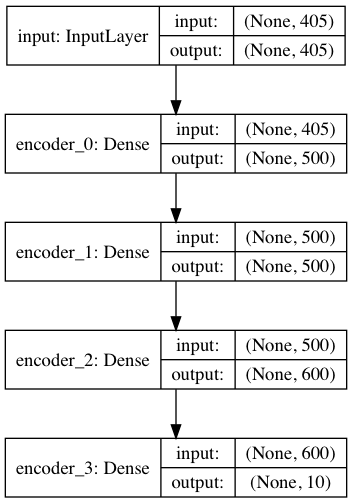
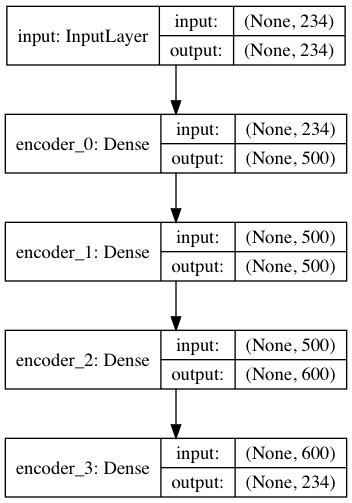
added data generator, testing yet

diff --git a/Keras-DEC-with-data-iterators.py b/Keras-DEC-with-data-iterators.py
@@ -50,6 +50,8 @@ parser.add_argument('-pt', '--pretrain_epochs', type=str, nargs='?', help='pretr
 parser.add_argument('-mi', '--maxiter', type=str, nargs='?', help='maxiter')
 parser.add_argument('-ui', '--update_interval', type=str, nargs='?', help='update_interval')
 
+parser.add_argument('-cmsp', '--confusion_matrix_save_path', type=str, nargs='?', help='confusion_matrix_save_path')
+
 FLAGS = parser.parse_args()
 print(FLAGS)
 
@@ -63,6 +65,9 @@ else:
 
 if FLAGS.out_to_dir == None or FLAGS.out_to_dir == "":
     raise Exception("Please specify out_to_dir")
+else:
+    if not os.path.exists( FLAGS.out_to_dir ):
+        os.mkdir( FLAGS.out_to_dir )
 
 ####################    
 
@@ -133,24 +138,28 @@ else:
 
     n_clusters = FLAGS.n_classes
 
-kmeans = KMeans(n_clusters=n_clusters, n_init=20, random_state=0, batch_size=FLAGS.batch_size)   #, n_jobs=4)
+print( "n_clusters" )
+print( n_clusters )
+kmeans = KMeans(n_clusters=n_clusters, n_init=20, batch_size=FLAGS.batch_size)   #random_state=0,    #, n_jobs=4)
 y_pred_kmeans = kmeans
-if False:   #ToDo temp
+if True:     #False:   #ToDo temp
     for bi in range(0, data.__len__()):
-        x, y = data.__getitem__(bi, True)
+        x, y = data.__getitem__(bi, True, is_return_only_x=False)
         y_pred_kmeans = y_pred_kmeans.partial_fit(x[:,:])
         
         ##
-        print( metrics.acc(y, y_pred_kmeans.labels_) )
+        print("y ", y.shape, y_pred_kmeans.labels_.shape)
+        #print( metrics.acc(y, y_pred_kmeans.labels_) )
 else:    
-    x, y = data.__getitem__(0, True)
+    x, y = data.__getitem__(0, True, is_return_only_x=False)
 
 #to speed up moved out side loop, will it going to change anything with efficiency of the algorithm 
 #print( metrics.acc(y, y_pred_kmeans.labels_) ) #padd entire y
 
 
 #dims = [x.shape[-1], 500, 500, 2000, 10]
-dims = [x.shape[-1], 500, 500, 600, 10]
+#dims = [x.shape[-1], 500, 500, 600, 10]
+dims = [x.shape[-1], 500, 500, 600, 234]
 init = VarianceScaling(scale=1. / 3., mode='fan_in',
                            distribution='uniform')
 pretrain_optimizer = SGD(lr=1, momentum=0.9)
@@ -249,17 +258,27 @@ Image(filename='model.png')
 
 model.compile(optimizer=SGD(0.01, 0.9), loss='kld')
 
-kmeans = KMeans(n_clusters=n_clusters, n_init=20)
+kmeans = KMeans(n_clusters=n_clusters, n_init=20, batch_size=FLAGS.batch_size)   # random_state=0,  #KMeans(n_clusters=n_clusters, n_init=20)
 #y_pred = kmeans.fit_predict(encoder.predict(x))
+is_first = True
 y_pred = None
 for bi in range(0, data.__len__()):
-    x, y = data.__getitem__(bi)
-    if y_pred == None:
-        y_pred = kmeans.fit_predict(x[:,:])
-    else:
-        y_pred = np.concatenate(y_pred, kmeans.fit_predict(x[:,:]))
+    x, y = data.__getitem__(bi, True, is_return_only_x=False)
+    # if is_first:
+    #     is_first = False
+    #     y_pred = kmeans.fit_predict(x[:,:])
+    # else:
+    #     y_pred = np.concatenate(y_pred, kmeans.fit_predict(x[:,:]))
+    kmeans.fit_predict(x[:,:])
 
-y_pred_last = np.copy(y_pred)
+y_pred_last = kmeans.labels_     #np.copy(y_pred)
+print( "y_pred_last" )
+print( type(y_pred_last) )
+print( y_pred_last.shape )
+print( "kmeans.cluster_centers_ .........................................................................................." )
+print( n_clusters )
+print(  type(kmeans.cluster_centers_) )
+print( kmeans.cluster_centers_.shape )
 
 model.get_layer(name='clustering').set_weights([kmeans.cluster_centers_])
 
@@ -276,25 +295,29 @@ update_interval = int(FLAGS.update_interval) #140
 
 tol = 0.001 # tolerance threshold to stop training
 
+yALL = None
 for ite in range(int(maxiter)):
     if ite % update_interval == 0:
         #q = model.predict(x, verbose=0)
         q = None
         for bi in range(0, data.__len__()):
-            x, y = data.__getitem__(bi)
-            if q == None:
+            x, y = data.__getitem__(bi, True, is_return_only_x=False)
+            if q is None:
                 q = model.predict(x[:,:], verbose=0)
+                yALL = y
             else:
                 q = np.concatenate(q, model.predict(x[:,:], verbose=0))
+                yALL = np.concatenate(yALL, y)
 
         p = target_distribution(q)  # update the auxiliary target distribution p
 
         # evaluate the clustering performance
         y_pred = q.argmax(1)
         if y is not None:
-            acc = np.round(metrics.acc(y, y_pred), 5)
-            nmi = np.round(metrics.nmi(y, y_pred), 5)
-            ari = np.round(metrics.ari(y, y_pred), 5)
+            #ToDo to set accuracy need to compare with yALL
+            acc = 0 # np.round(metrics.acc(y, y_pred), 5)
+            nmi = 0 # np.round(metrics.nmi(y, y_pred), 5)
+            ari = 0 # np.round(metrics.ari(y, y_pred), 5)
             loss = np.round(loss, 5)
             print('Iter %d: acc = %.5f, nmi = %.5f, ari = %.5f' % (ite, acc, nmi, ari), ' ; loss=', loss)
 
@@ -308,8 +331,8 @@ for ite in range(int(maxiter)):
     # idx = index_array[index * batch_size: min((index+1) * batch_size, x.shape[0])]
     # loss = model.train_on_batch(x=x[idx], y=p[idx])
     # index = index + 1 if (index + 1) * batch_size <= x.shape[0] else 0
-    x, y = data.__getitem__(index)
-    loss = model.train_on_batch(x=x, y=p[idx])
+    x, y = data.__getitem__(index, True, is_return_only_x=False)
+    loss = model.train_on_batch(x=x, y=p[ index * FLAGS.batch_size : (index+1) * FLAGS.batch_size ])      #y=p[idx])
     index = index + 1 if (index + 1) < data.__len__() else 0
 
 model.save_weights(save_dir + '/DEC_model_final.h5')
@@ -320,7 +343,7 @@ model.load_weights(save_dir + '/DEC_model_final.h5')
 #q = model.predict(x, verbose=0)
 q = None
 for bi in range(0, data.__len__()):
-    x, y = data.__getitem__(bi)
+    x, y = data.__getitem__(bi, True, is_return_only_x=False)
     if q == None:
         q = model.predict(x[:,:], verbose=0)
     else:
@@ -330,9 +353,9 @@ p = target_distribution(q)  # update the auxiliary target distribution p
 # evaluate the clustering performance
 y_pred = q.argmax(1)
 if y is not None:
-    acc = np.round(metrics.acc(y, y_pred), 5)
-    nmi = np.round(metrics.nmi(y, y_pred), 5)
-    ari = np.round(metrics.ari(y, y_pred), 5)
+    acc = 0 #np.round(metrics.acc(y, y_pred), 5)
+    nmi = 0 #np.round(metrics.nmi(y, y_pred), 5)
+    ari = 0 #np.round(metrics.ari(y, y_pred), 5)
     loss = np.round(loss, 5)
     print('Acc = %.5f, nmi = %.5f, ari = %.5f' % (acc, nmi, ari), ' ; loss=', loss)
 
@@ -340,7 +363,8 @@ import seaborn as sns
 import sklearn.metrics
 import matplotlib.pyplot as plt
 sns.set(font_scale=3)
-confusion_matrix = sklearn.metrics.confusion_matrix(y, y_pred)
+print( "yALL ", type(yALL), type(y_pred), yALL.shape, y_pred.shape )
+confusion_matrix = sklearn.metrics.confusion_matrix(yALL, y_pred)  #(y, y_pred)
 
 #label
 if not FLAGS.out_to_dir == None and not FLAGS.out_to_dir == "":
@@ -349,7 +373,8 @@ if not FLAGS.out_to_dir == None and not FLAGS.out_to_dir == "":
         if not os.path.isdir( FLAGS.out_to_dir + "/" + str(y_pred[i]) ):
             os.mkdir( FLAGS.out_to_dir + "/" + str(y_pred[i]) )
 
-        os.rename( y_paths[i], FLAGS.out_to_dir + "/" + str(y_pred[i]) + "/" + os.path.basename(y_paths[i]) )
+        #ToDo
+        #os.rename( y_paths[i], FLAGS.out_to_dir + "/" + str(y_pred[i]) + "/" + os.path.basename(y_paths[i]) )
 
 
 
@@ -358,7 +383,13 @@ sns.heatmap(confusion_matrix, annot=True, fmt="d", annot_kws={"size": 20});
 plt.title("Confusion matrix", fontsize=30)
 plt.ylabel('True label', fontsize=25)
 plt.xlabel('Clustering label', fontsize=25)
-plt.show()
+if not FLAGS.confusion_matrix_save_path == None and not FLAGS.confusion_matrix_save_path == "":
+    plt.savefig(FLAGS.confusion_matrix_save_path)
+else:
+    plt.show()
+
+input("Confusion matrix created, press enter to continue further...")
+
 
 from sklearn.utils.linear_assignment_ import linear_assignment
 

diff --git a/Keras-DEC.py b/Keras-DEC.py
@@ -45,6 +45,8 @@ parser.add_argument('-ui', '--update_interval', type=str, nargs='?', help='updat
 
 parser.add_argument('-csp', '--confusion_matrix_save_path', type=str, nargs='?', help='confusion_matrix_save_path')
 
+parser.add_argument('--n_classes', type=int, nargs='?', help='n_classes')
+
 
 FLAGS = parser.parse_args()
 print(FLAGS)
@@ -122,7 +124,7 @@ else:
 
                 if os.path.isfile(paths[0]+item+ "/" +item_img):
                     x.append( cv2.cvtColor(cv2.imread( paths[0]+item+ "/" +item_img ), cv2.COLOR_BGR2GRAY) )
-                    y.append( randint(0,29) )    #randint(0,9)
+                    y.append( randint(0,FLAGS.n_classes) )    #randint(0,9)
                     y_paths.append( paths[0]+item+ "/" +item_img )
 
                 # if len(x) > 1024:
@@ -186,8 +188,9 @@ print( y.shape )
 print( x[0].max(axis=0) )
 
 n_clusters = len(np.unique(y))
-x.shape
 
+print( "n_clusters" )
+print( n_clusters )
 kmeans = KMeans(n_clusters=n_clusters, n_init=20, n_jobs=4)
 y_pred_kmeans = kmeans.fit_predict(x)
 
@@ -301,8 +304,12 @@ kmeans = KMeans(n_clusters=n_clusters, n_init=20)
 y_pred = kmeans.fit_predict(encoder.predict(x))
 
 y_pred_last = np.copy(y_pred)
-
+print( "kmeans.cluster_centers_ .........................................................................................." )
+print( n_clusters )
+print(  type(kmeans.cluster_centers_) )
+print( kmeans.cluster_centers_.shape )
 model.get_layer(name='clustering').set_weights([kmeans.cluster_centers_])
+
 
 # computing an auxiliary target distribution
 def target_distribution(q):

diff --git a/DataGenerator.py b/DataGenerator.py
@@ -99,7 +99,7 @@ class DataGenerator(keras.utils.Sequence):
             print( "__len__", self.total_records, self.batch_size, int(np.floor(self.total_records / self.batch_size)) )
             return int(np.floor(self.total_records / self.batch_size))
 
-    def __getitem__(self, index, is_return_tuple=True):
+    def __getitem__(self, index, is_return_tuple=True, is_return_only_x=True):
         'Generate one batch of data'
 
         #
@@ -135,7 +135,10 @@ class DataGenerator(keras.utils.Sequence):
         print(y.shape)
 
         if is_return_tuple:
-            return X, y
+            if is_return_only_x:
+                return X, X
+            else:
+                return X, y
         else:
             return X
 
